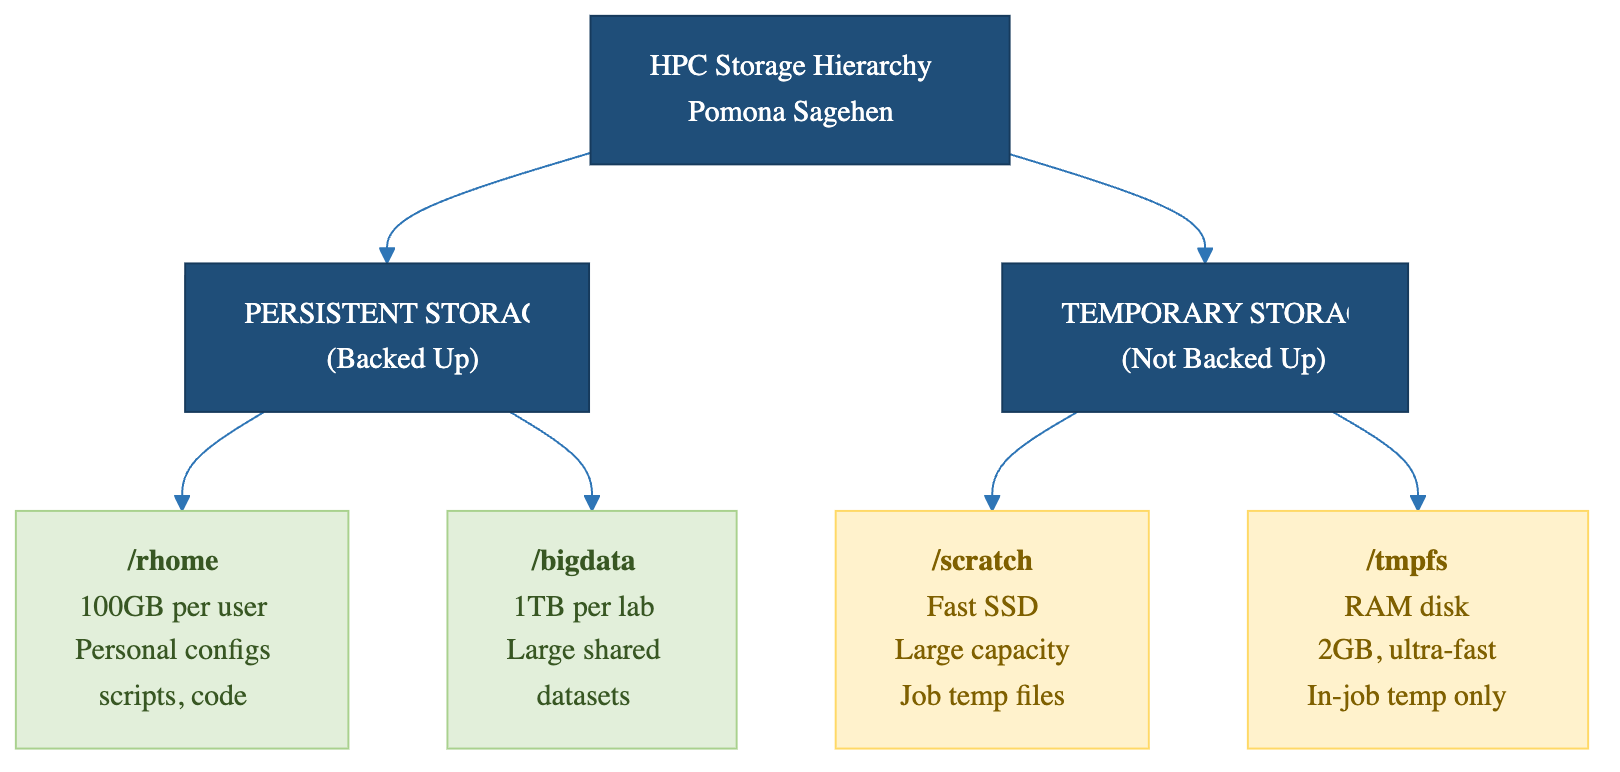
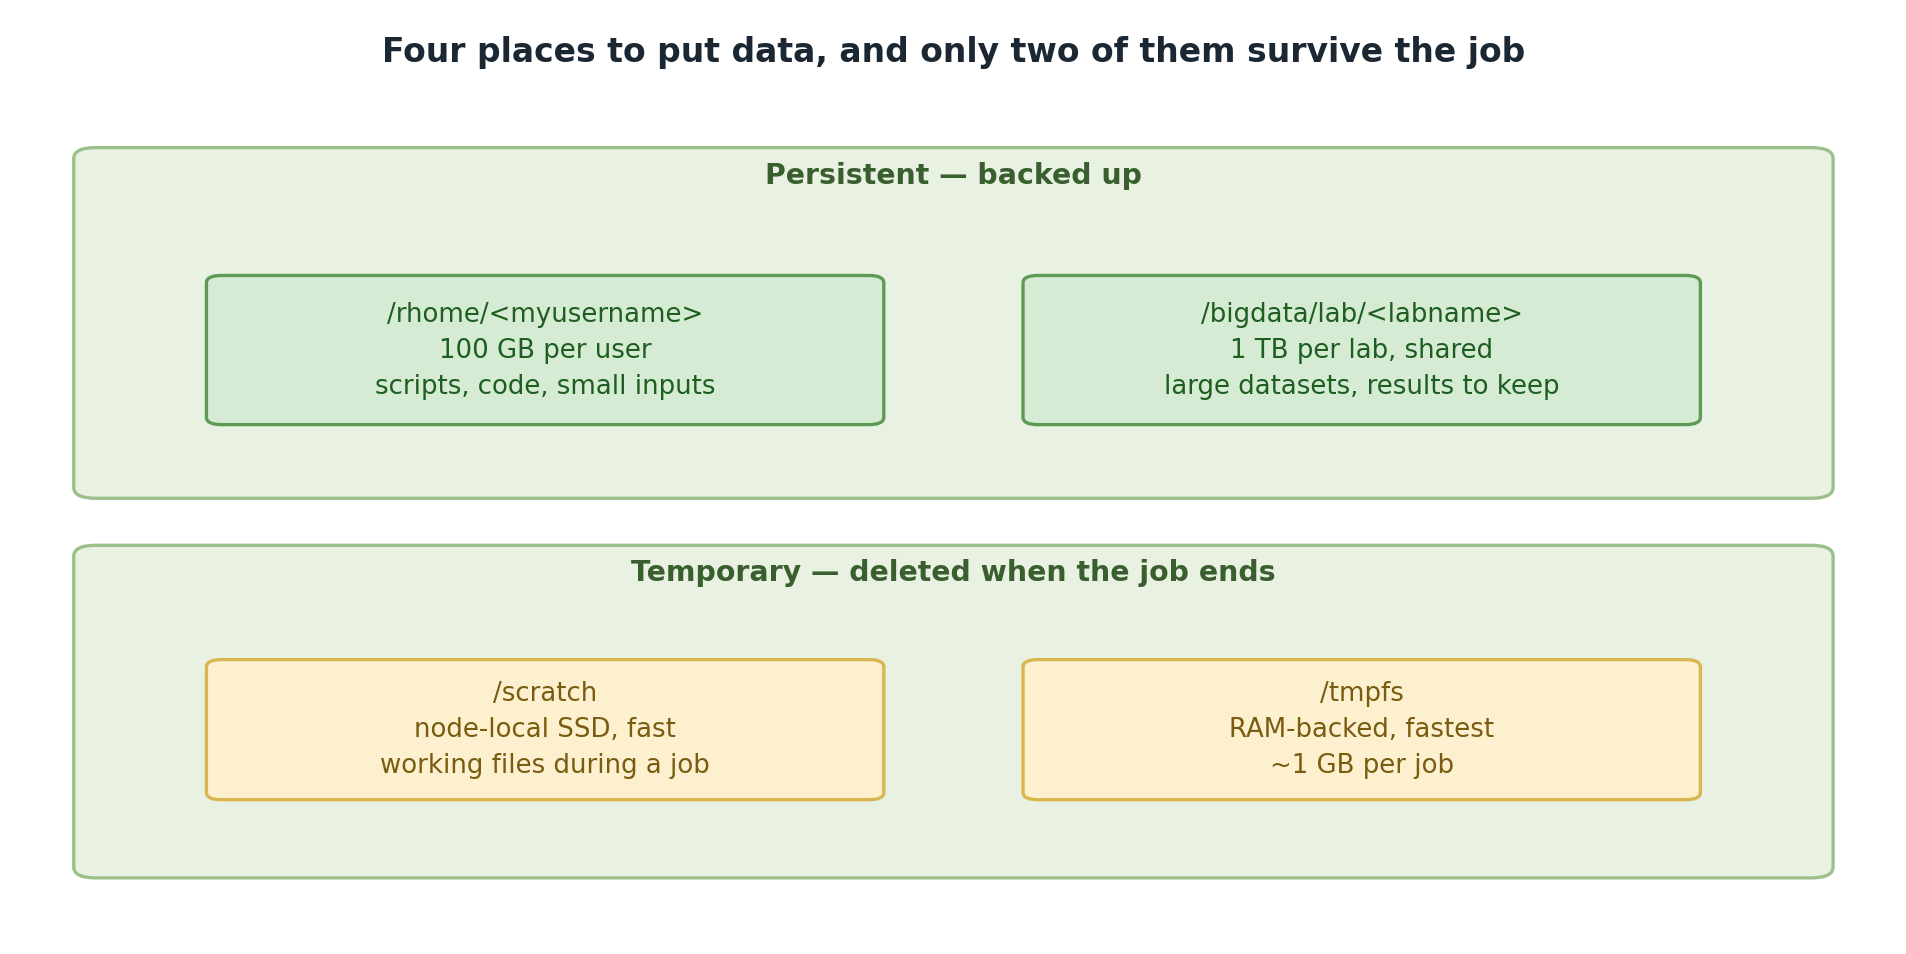
Rebuild and place the three storage diagrams
All three were unreferenced and one was exported at 8.7:1. Redrawn with the
storage figures the rest of the workshop uses: /rhome 100 GB per user,
/bigdata/lab 1 TB per lab, /scratch node-local and deleted at job end, and
/tmpfs RAM-backed at about 1 GB per job.

The job data flow diagram now ends on the point that matters -- anything left
only on /scratch when the job finishes is gone, so results must be copied back
before the script exits, including when it fails.

diff --git a/episodes/09-scratch-storage.md b/episodes/09-scratch-storage.md
@@ -39,6 +39,8 @@ The performance gap matters most when many jobs are reading from `/bigdata` simu
 
 ::::::::::::::::::::::::::::::::::::: callout
 
+![Copy in, work on the fast local disk, copy out before the job ends.](fig/03-job-data-flow.png){alt='A five-step flow through a job. The job starts, inputs are copied from /bigdata to /scratch, computation reads and writes /scratch, results are copied back from /scratch to /bigdata, and then the job ends and /scratch is wiped. A warning states that anything still only on /scratch when the job ends is gone, so results must be copied back before the script exits, including on failure.'}
+
 ## Scratch Is Non-Persistent
 
 Data on `/scratch` is **deleted when your job completes**. Always copy results back to `/rhome` or `/bigdata` before the job ends. If you forget, your results are permanently lost.

diff --git a/episodes/02-checking-quotas.md b/episodes/02-checking-quotas.md
@@ -42,6 +42,8 @@ Lab ABC (quota: 1TB = 1024GB)
 
 Temporary storage (`/scratch` and `/tmpfs`) does not count against your lab quota.
 
+![One question decides it: does the data need to outlive the job?](fig/02-storage-decision.png){alt='A decision tree for where data should live. If it does not need to survive the job, use /scratch, node-local SSD, or /tmpfs in RAM at about 1 GB, both deleted at job end. If it must survive and is shared with your lab, use /bigdata/lab with 1 TB shared and backed up. If it must survive but is yours alone, use /rhome with 100 GB backed up.'}
+
 ## Using quota_check.sh (Recommended)
 
 Sagehen provides a dedicated script that accounts for BeeGFS:

diff --git a/episodes/01-storage-overview.md b/episodes/01-storage-overview.md
@@ -44,6 +44,8 @@ Sagehen Storage Architecture
 
 ::::::::::::::::::::::::::::::::::::: callout
 
+![Two tiers are backed up and two vanish when the job ends.](fig/01-storage-hierarchy.png){alt='Storage on Sagehen HPC in two groups. Persistent and backed up: /rhome with 100 GB per user for scripts, code and small inputs, and /bigdata/lab per lab with 1 TB shared for large datasets and results to keep. Temporary and deleted when the job ends: /scratch, node-local SSD used for working files during a job, and /tmpfs, RAM-backed and fastest at about 1 GB per job.'}
+
 ## Storage Performance Tiers
 
 - **Fastest**: `/tmpfs` (RAM-backed, node-local)
